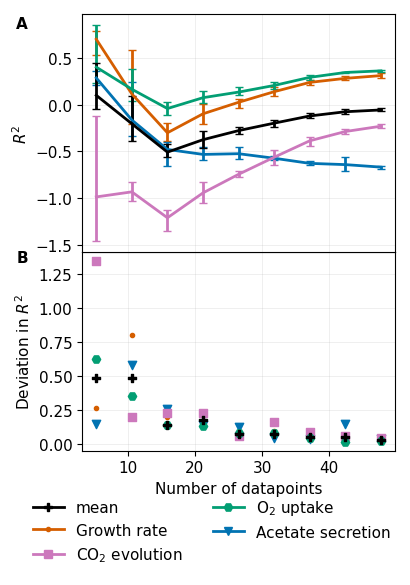
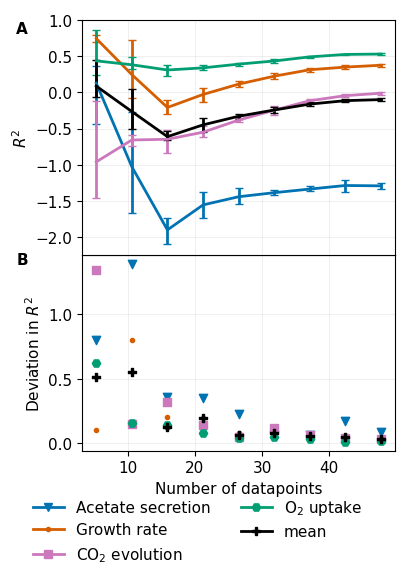
splitted mapping of kcat values to COG from barplot generation for reuse

diff --git a/Figures/Scripts/Figure1_iml1515_kcat_analysis.py b/Figures/Scripts/Figure1_iml1515_kcat_analysis.py
@@ -6,7 +6,7 @@ import seaborn as sns
 import numpy as np
 import pandas as pd
 import os
-from typing import List, Dict, Tuple, Callable
+from typing import List, Dict, Tuple, Callable, Literal
 from PAModelpy.utils import set_up_pam
 
 from Scripts.i2_parametrization.pam_parametrizer_iML1515 import set_up_pamparametrizer
@@ -156,28 +156,42 @@ def calculate_change_in_kcat(best_individual_df: pd.DataFrame,
 
 def add_pathway_annotation_to_kcat_changes(best_individual_df: pd.DataFrame,
                               pathway_annotation_file:str = os.path.join('Data', 'GeneList_ecoli.xlsx'),
-                              gene_to_protein_sheet:str = 'GeneList', rxn_to_gene_sheet: str = 'gene2rxn'
+                              gene_to_protein_sheet:str = 'GeneList',
+                                           rxn_to_gene_sheet: str = 'gene2rxn'
                                            )->pd.DataFrame:
-    # get pathway information from genelist file
-    gene_list_info = pd.read_excel(pathway_annotation_file, sheet_name=gene_to_protein_sheet)
-    rxn2gene_info = pd.read_excel(pathway_annotation_file, sheet_name=rxn_to_gene_sheet)
-
-    # map cog information to reactions using the gene id
-    gene2rxn2cog = pd.merge(gene_list_info[['bnumber', 'COG description']], rxn2gene_info,
-                            left_on='bnumber', right_on='Gene', how='inner')
-    gene2rxn2cog.Reactions = gene2rxn2cog.Reactions.str.split(', ')
-    gene2rxn2cog['COG description'] = gene2rxn2cog['COG description'].str.split(';')
-    gene2rxn2cog = gene2rxn2cog.explode('Reactions')
-    gene2rxn2cog = gene2rxn2cog.explode('COG description').reset_index(drop=True)
-
-    best_kcats_with_cog = pd.merge(best_individual_df, gene2rxn2cog[['Reactions', 'COG description']],
-                                   left_on='rxn_id', right_on='Reactions', how='left')
+    best_kcats_with_cog = add_pathway_annotation_to_proteins(df_with_proteins=best_individual_df,
+                                                             pathway_annotation_file=pathway_annotation_file,
+                                                             gene_to_protein_sheet=gene_to_protein_sheet,
+                                                             rxn_to_gene_sheet=rxn_to_gene_sheet)
     best_kcats_with_cog = best_kcats_with_cog.drop_duplicates(
         ['rxn_id', 'enzyme_id', 'r_squared', 'COG description']).reset_index(drop=True)
     best_kcats_with_cog['enz_kcat_change']  = best_kcats_with_cog['kcat_change']
     total_change_per_iteration = best_kcats_with_cog.groupby(['alternative'])['kcat_change'].sum().abs().reset_index()
     return pd.merge(best_kcats_with_cog.drop('kcat_change', axis=1), total_change_per_iteration,
                              on=['alternative'])
+
+def add_pathway_annotation_to_proteins(df_with_proteins: pd.DataFrame,
+                                       pathway_annotation_file: str = os.path.join('Data', 'GeneList_ecoli.xlsx'),
+                                       gene_to_protein_sheet: str = 'GeneList',
+                                       rxn_to_gene_sheet: str = 'gene2rxn',
+                                        merge_on: Literal['rxn_id', 'protein_id']='rxn_id'
+                                       ) -> pd.DataFrame:
+    # get pathway information from genelist file
+    gene_list_info = pd.read_excel(pathway_annotation_file, sheet_name=gene_to_protein_sheet
+                                   ).rename({'Swiss-Prot primary accession number':'protein_id'}, axis =1)
+    rxn2gene_info = pd.read_excel(pathway_annotation_file, sheet_name=rxn_to_gene_sheet)
+
+    # map cog information to reactions using the gene id
+    gene2rxn2cog = pd.merge(gene_list_info[['bnumber','protein_id', 'COG description']], rxn2gene_info,
+                            left_on='bnumber', right_on='Gene', how='inner')
+    gene2rxn2cog.Reactions = gene2rxn2cog.Reactions.str.split(', ')
+    gene2rxn2cog['COG description'] = gene2rxn2cog['COG description'].str.split(';')
+    gene2rxn2cog = gene2rxn2cog.explode('Reactions')
+    gene2rxn2cog = gene2rxn2cog.explode('COG description').reset_index(drop=True
+                                                                       ).rename({'Reactions':'rxn_id'}, axis=1)
+
+    return pd.merge(df_with_proteins, gene2rxn2cog[[merge_on, 'COG description']],
+                                   on=merge_on, how='left')
 
 def summarize_and_pivot_cog_info_df_to_long(cog_info_relative: pd.DataFrame):
     # Step 1: Compute the sums of positive and negative changes

diff --git a/Figures/Scripts/Figure6_data_reduction.py b/Figures/Scripts/Figure6_data_reduction.py
@@ -130,8 +130,8 @@ def main_datareduc():
     ax_a.set_axisbelow(True)
 
     final_errors = pd.read_excel(os.path.join('Results', 'data_reduction_results', 'r_squared_for_analysis.xlsx'))
-    plot_progression_of_errors(final_errors, ax = ax_a, legend=False, fontsize = FONTSIZE)
-    plot_deviation_of_error(final_errors, ax = ax_b, legend=False, fontsize = FONTSIZE)
+    plot_progression_of_errors(final_errors, ax = ax_a, legend=False, fontsize = FONTSIZE, metrics='rsquared')
+    plot_deviation_of_error(final_errors, ax = ax_b, legend=False, fontsize = FONTSIZE, metrics='rsquared')
 
     ax_a.xaxis.grid(visible=True, alpha=0.2, linewidth=0.7)
     ax_a.tick_params(axis='x', which='both', bottom=False, top=False, labelbottom=False)
